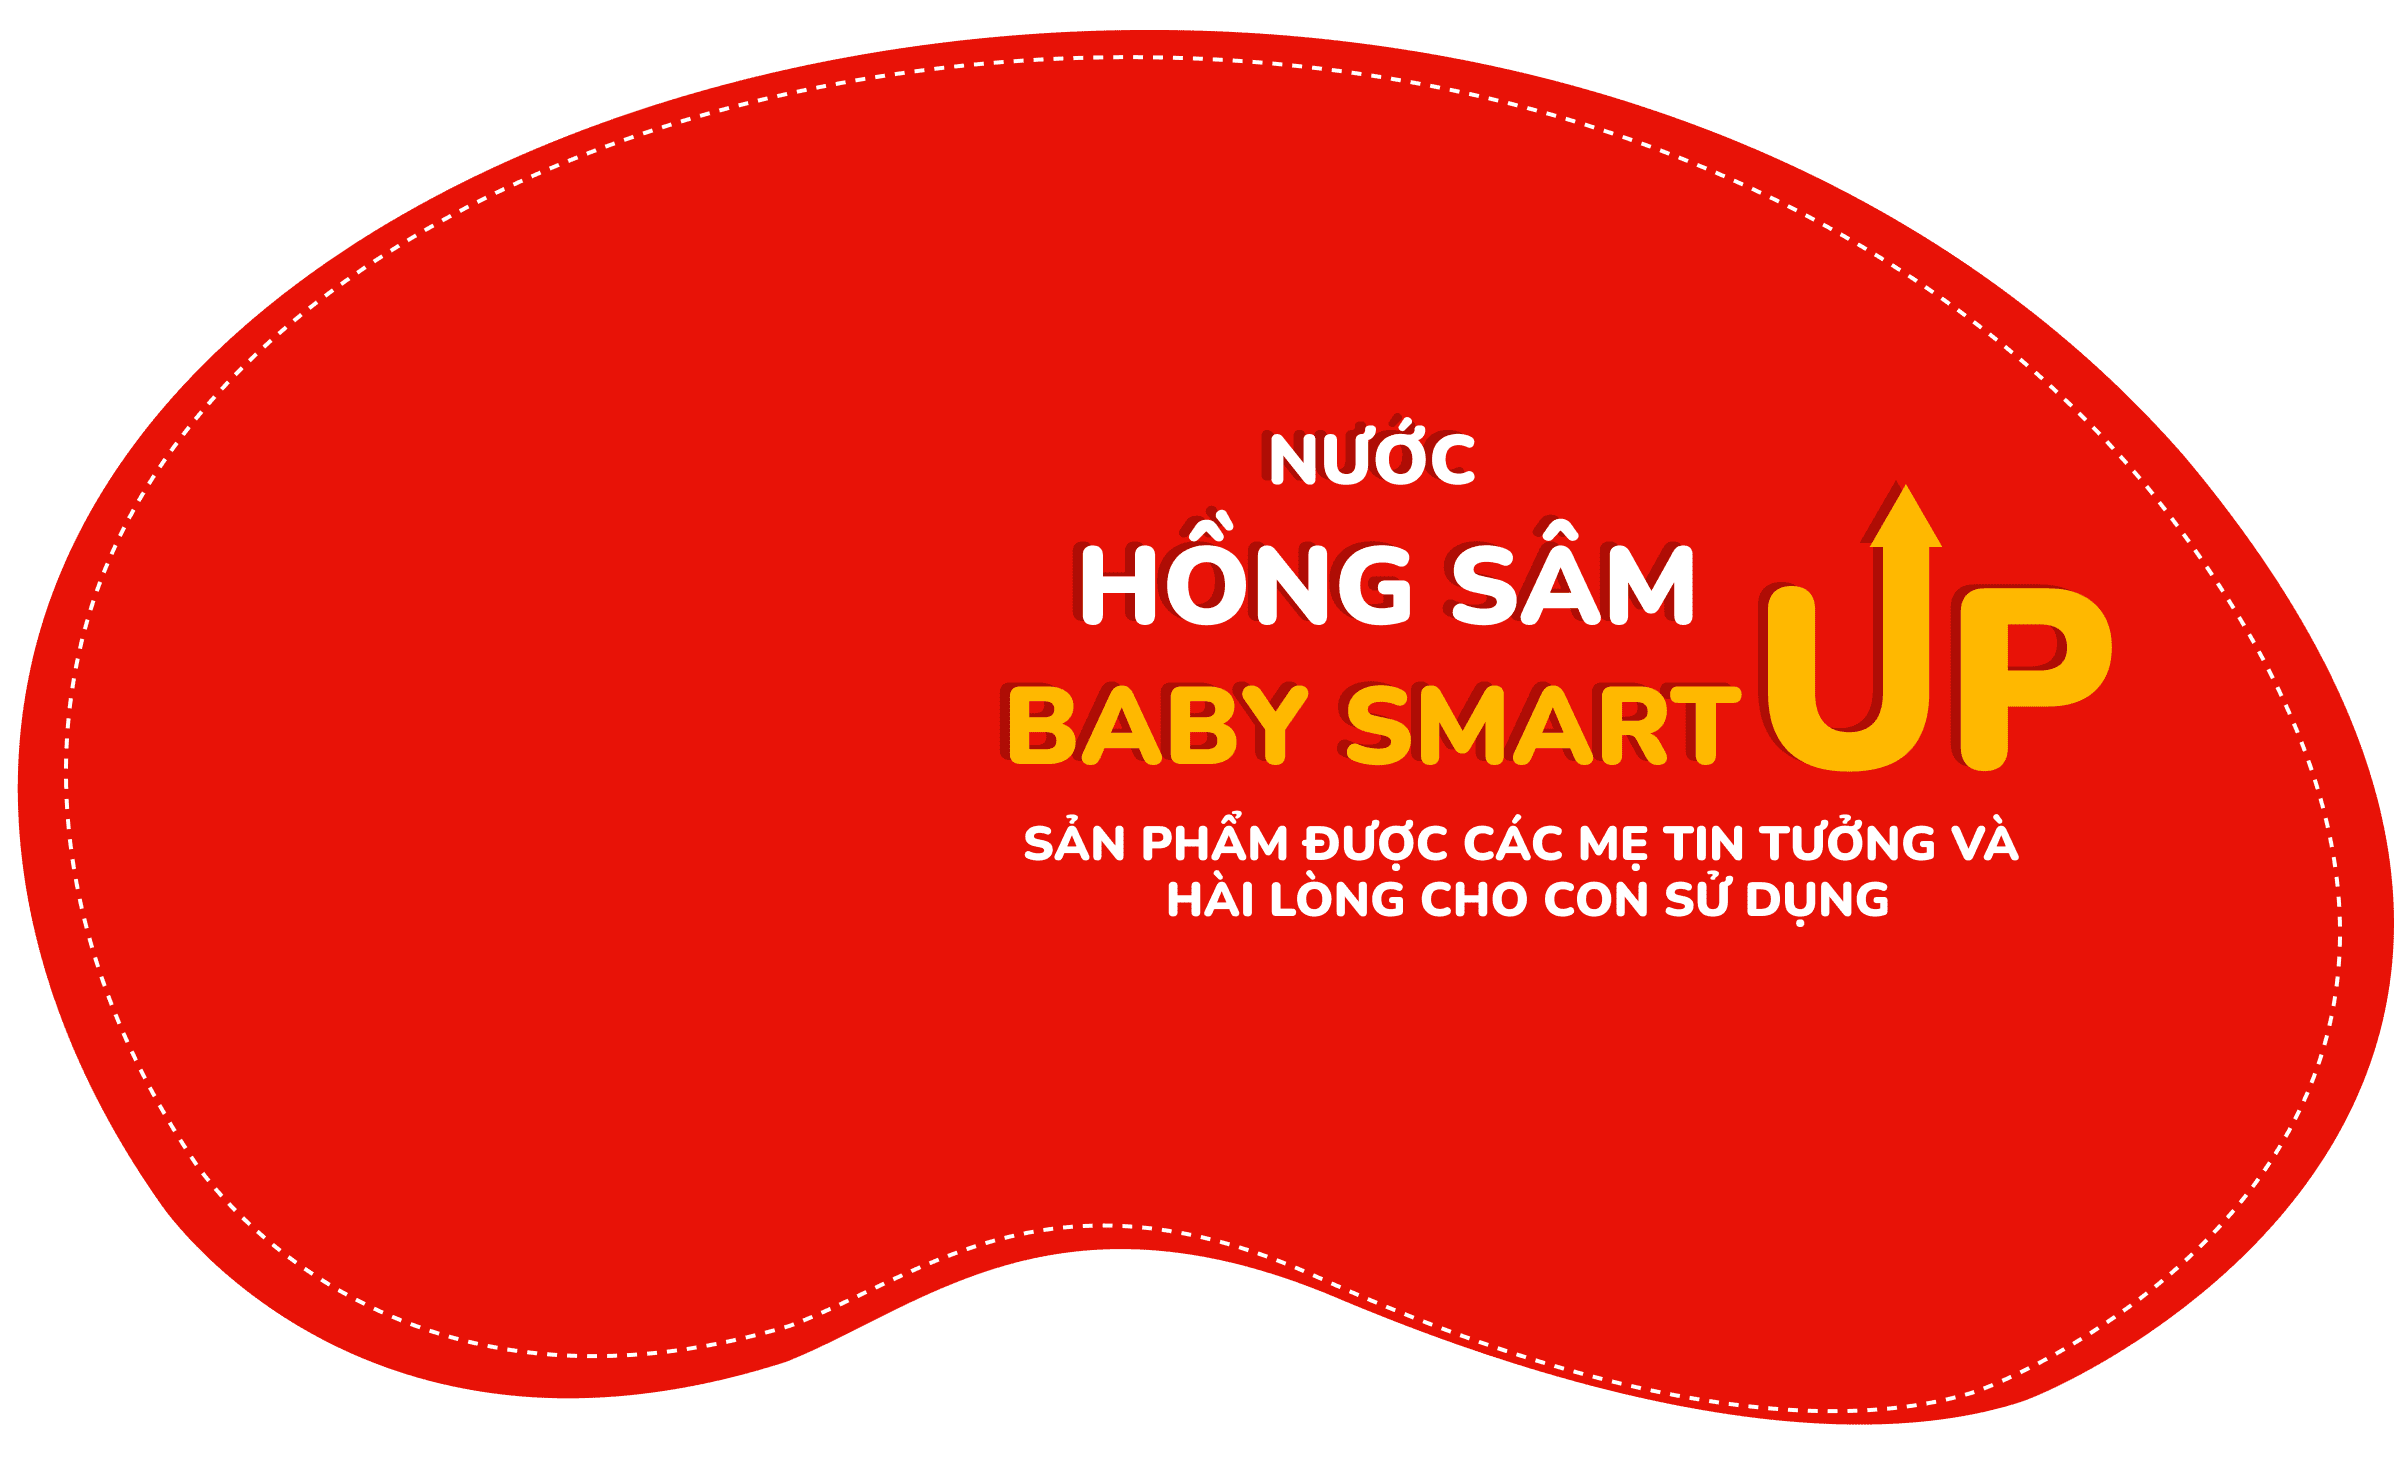
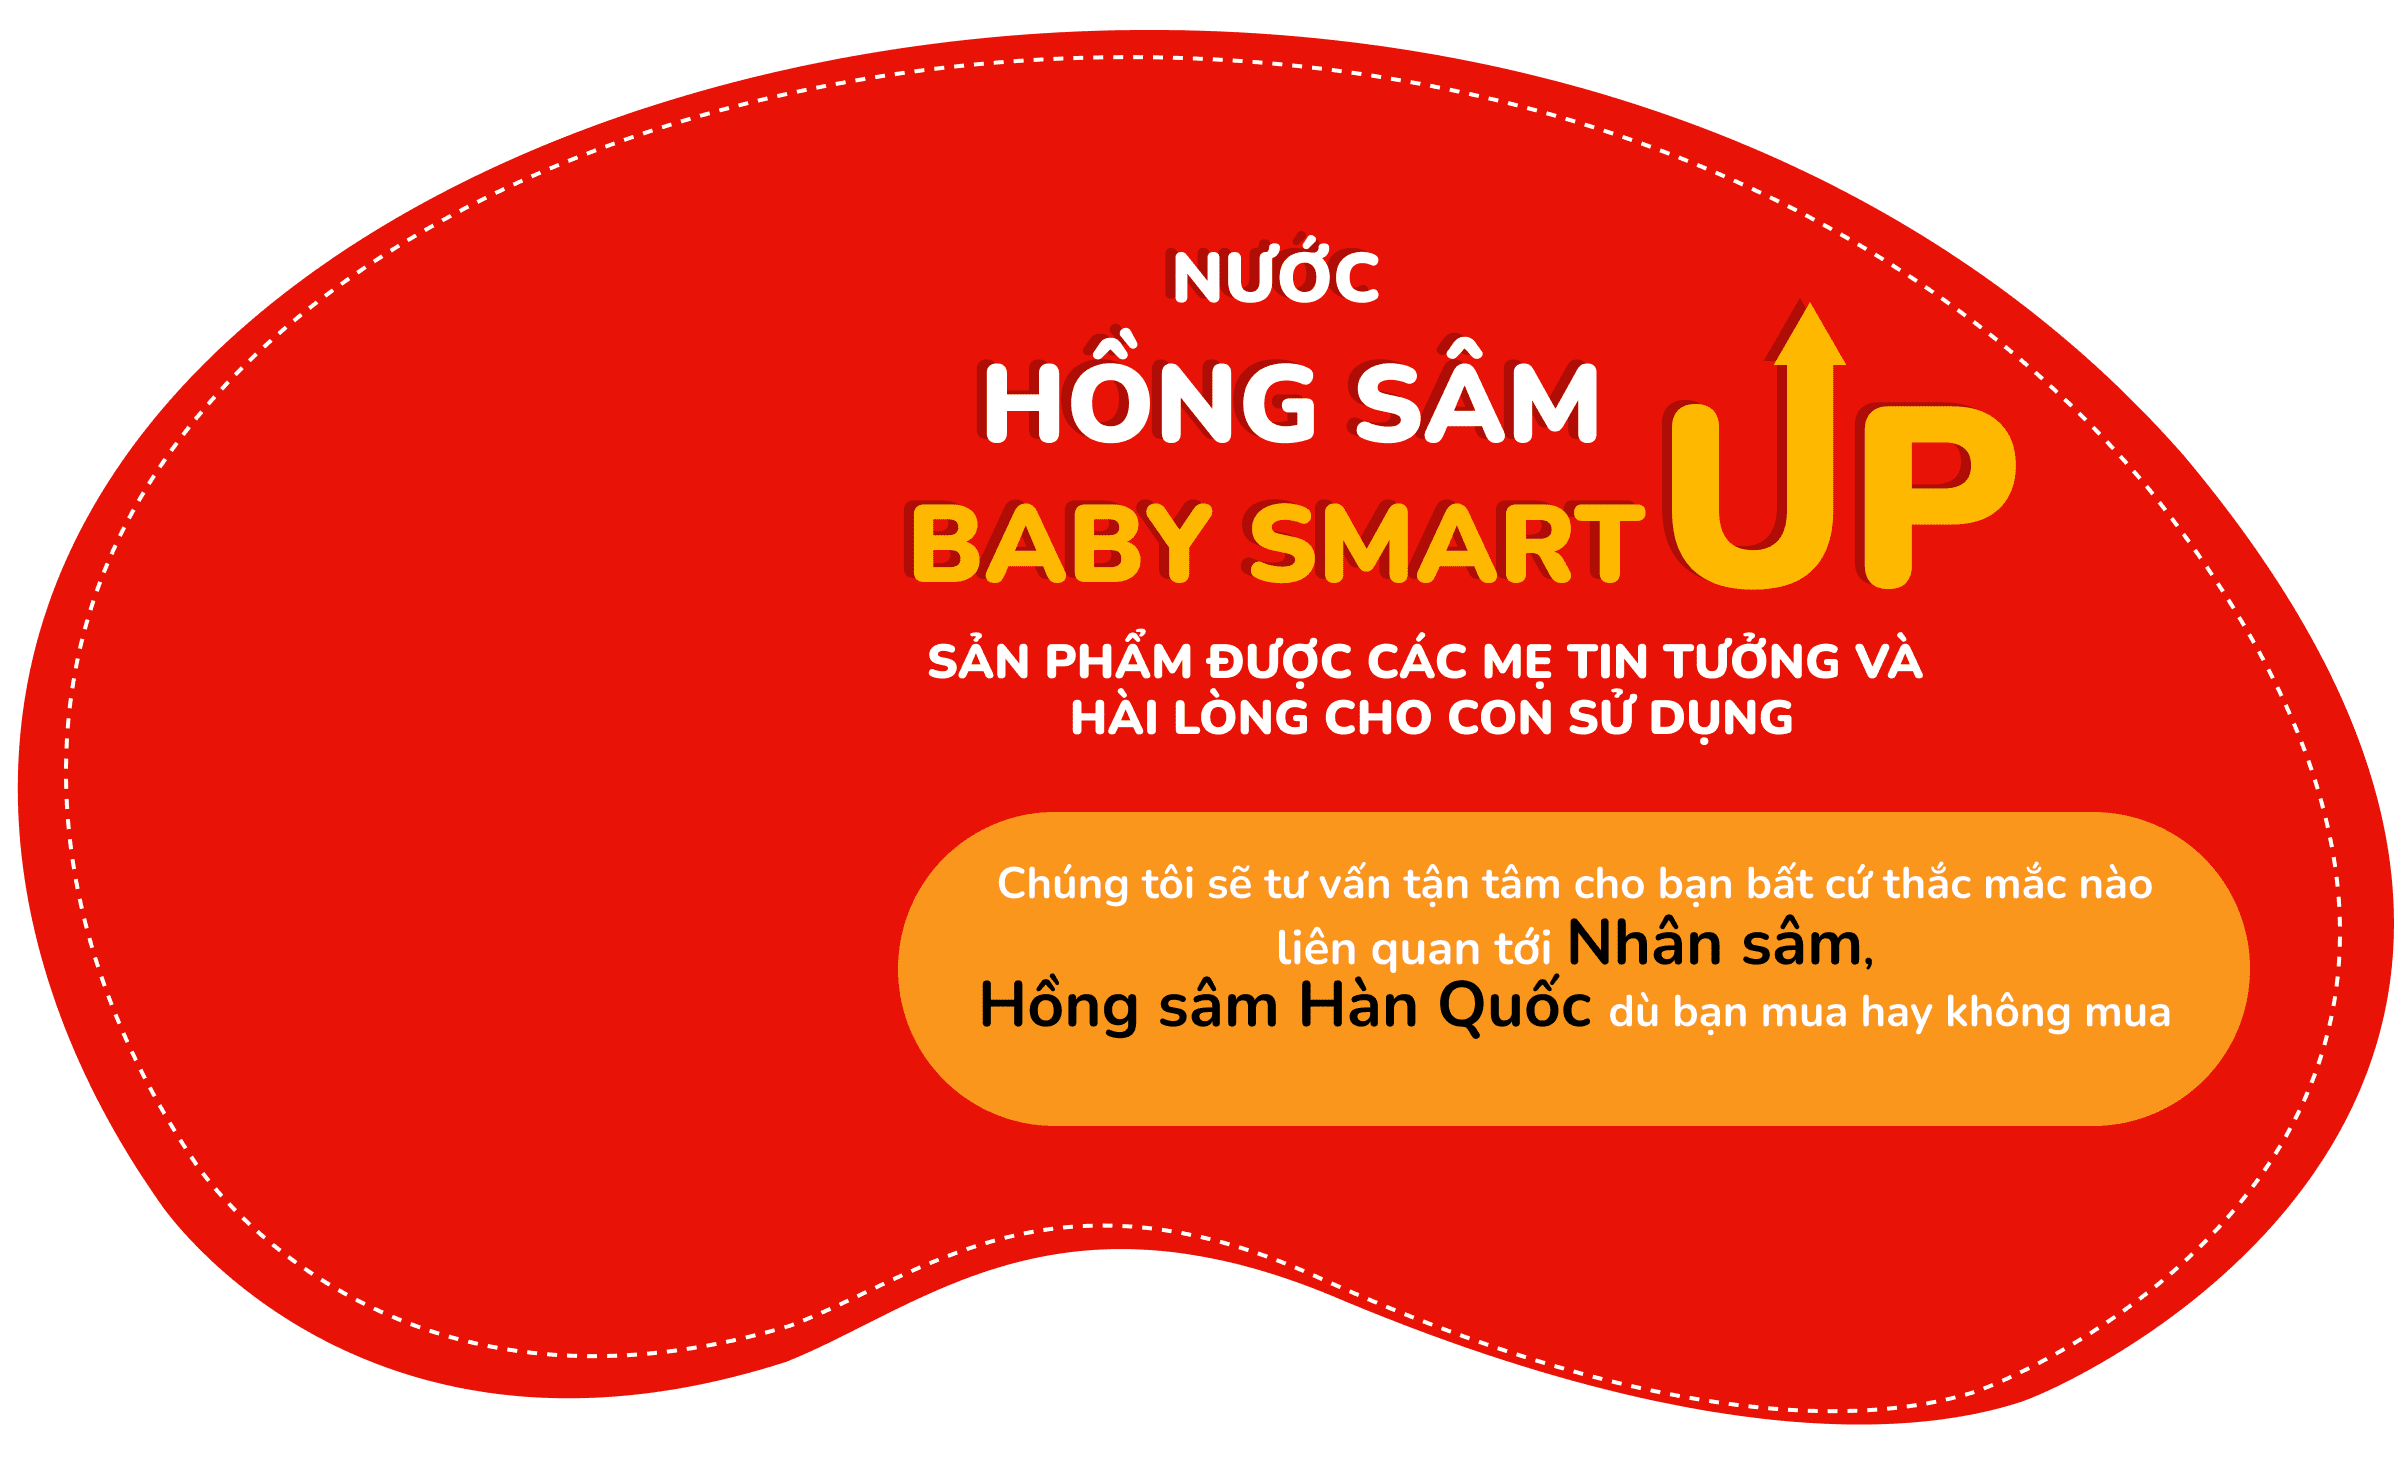
Update contact button link

Changed region(s): [[0.3741, 0.2144, 0.9352, 0.7658], [0.4676, 0.1532, 0.5923, 0.2144]]

diff --git a/src/components/Instruct.js b/src/components/Instruct.js
@@ -2,8 +2,23 @@ import React from "react";
 
 export default function Instruct() {
   return (
-    <section className="relative pt-[140px] md:pt-[250px] lg:pt-[340px] xl:pt-[470px] pb-sectionMB md:pb-section">
-      <div className="absolute top-[-80px] right-[5px] md:top-[-125px] md:right-[10px] lg:top-[-160px] lg:right-[50px] xl:top-[-320px] xl:right-[60px]">
+    <section className="relative pt-[140px] md:pt-[250px] lg:pt-[300px] xl:pt-[470px] pb-sectionMB md:pb-section">
+      <div className="absolute top-[-80px] right-[5px] md:top-[-125px] md:right-[10px] lg:top-[-160px] lg:right-[30px] xl:top-[-320px] xl:right-[40px]">
+        <div className="xl:block hidden absolute bottom-[80px] right-[80px] z-10">
+          <a
+            className="contact-button"
+            href="http://m.me/100062932646413"
+            target="_blank"
+            rel="noreferrer"
+          >
+            <img
+              className="w-[40px]"
+              src="./icons/phone-white-icon.svg"
+              alt=""
+            />
+            <span>HỖ TRỢ TƯ VẤN</span>
+          </a>
+        </div>
         <img
           className="w-[220px] md:w-[380px] lg:w-[500px] xl:w-[900px]"
           srcSet="./images/ins4.png 2x"
@@ -22,6 +37,21 @@ export default function Instruct() {
         />
       </div>
       <div id="instruct" className="pt-[30px] page-container">
+        <div className="block text-center xl:hidden mb-[80px]">
+          <a
+            className="contact-button"
+            href="http://m.me/100062932646413"
+            target="_blank"
+            rel="noreferrer"
+          >
+            <img
+              className="w-[40px]"
+              src="./icons/phone-white-icon.svg"
+              alt=""
+            />
+            <span>HỖ TRỢ TƯ VẤN</span>
+          </a>
+        </div>
         <h2
           className="font-extrabold text-[24px] md:text-[38px] lg:text-[48px] xl:text-[55px] text-black leading-[1.2] uppercase mb-[15px] xl:mb-[30px] text-center"
           data-aos="fade-down"

diff --git a/src/components/Ginseng.js b/src/components/Ginseng.js
@@ -102,7 +102,7 @@ export default function Ginseng() {
         <div className="text-center mt-[40px] lg:mt-0">
           <a
             className="contact-button"
-            href="http://m.me/"
+            href="http://m.me/100062932646413"
             target="_blank"
             rel="noreferrer"
           >
